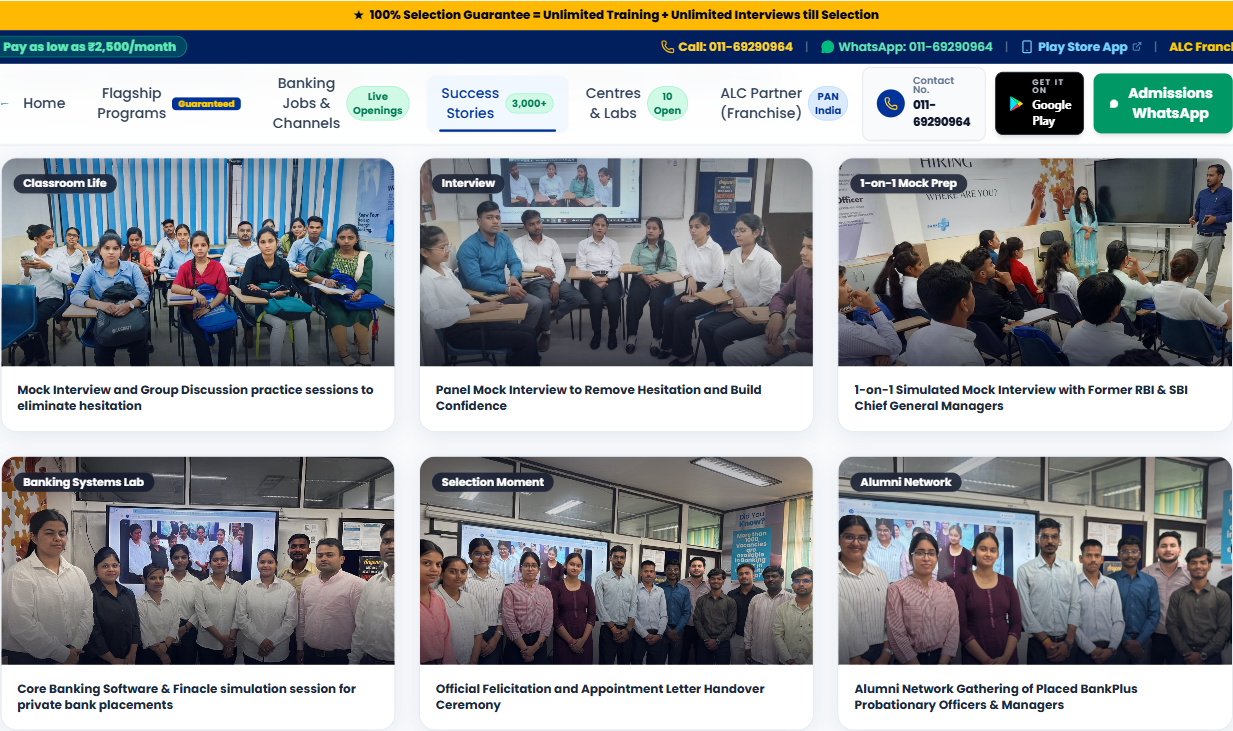
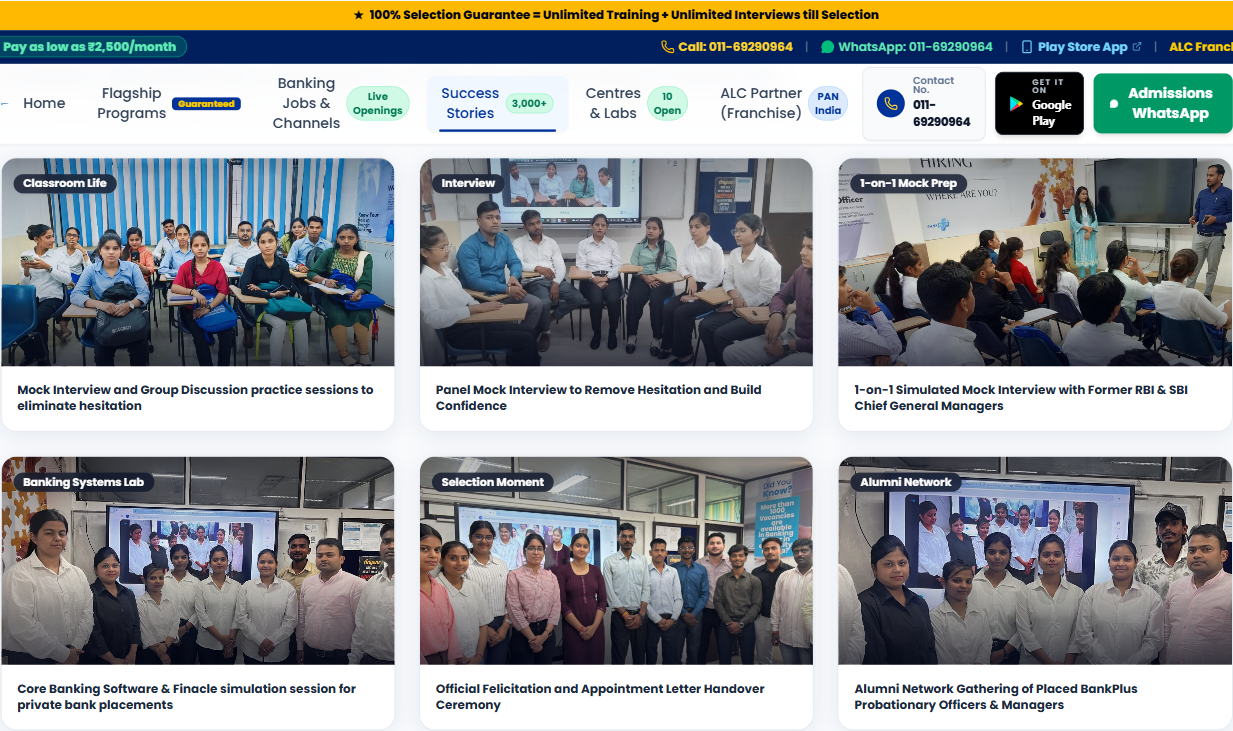
Reorder Campus Life gallery so no two consecutive cards repeat a scene
Client asked that 1st/2nd, 2nd/3rd, 3rd/4th, 4th/5th and 5th/6th each show
different images. Slots 5 and 6 were 3486 and 3444 - two frames of the same
group photo sitting directly next to each other.

The images/ batch holds only five distinct scenes for six slots:
  A 64625 seated classroom | B 64641 mock interview | C 64655 faculty session
  D 64640+64619 branch lab cohort | E 3486+3444 large group
so one group must appear twice; the fix is to place that repeat
non-consecutively.

New order A B C D E D:
  5 Selection Moment -> 3444  (was 3486)
  6 Alumni Network   -> 64619 (was 3444), cropped 1.45x tighter

Every consecutive pair now differs. The repeated D pair sits at 4 and 6 with
slot 5 between them, and the tighter crop on 6 keeps them distinct even when
seen in the same desktop row. Moving slot 5 to 3444 also leaves 3486
exclusive to the reels, cutting cross-section repetition from 4 photos to 3.

mockData.ts is unchanged - only the two JPEGs were regenerated under the same
filenames, which name the caption slot rather than the source photo. Confirmed
the server serves the new bytes, not cached copies.

Verified: tsc --noEmit clean, build ships all 6, cache-busted browser check
shows all 6 loading with 0 broken images.

Changed region(s): [[0.339, 0.6019, 1.0, 0.933]]

diff --git a/context.md b/context.md
@@ -407,8 +407,8 @@ at the **same file** (`classroom/IMG-20260515-WA0024.jpg`), so two cards rendere
 | gallery-2 | Interview — Panel Mock Interview | `64641.jpg` | the only true mock-interview panel in the batch |
 | gallery-3 | 1-on-1 Mock Prep — with former RBI/SBI CGMs | `64655.jpg` | senior faculty leading a live session |
 | gallery-4 | Banking Systems Lab — Core Banking/Finacle | `64640.jpg` | branch-simulation lab, Teller counter + screens |
-| gallery-5 | Selection Moment — felicitation / letter handover | `3486.jpg` | placed cohort, "1000 Vacancies" banner |
-| gallery-6 | Alumni Network — gathering of placed POs | `3444.jpg` | tightened crop, see below |
+| gallery-5 | Selection Moment — felicitation / letter handover | `3444.jpg` | placed cohort, "1000 Vacancies" banner |
+| gallery-6 | Alumni Network — gathering of placed POs | `64619.jpg` | 1.45x tighter crop, see below |
 
 ### Aspect handling
 The slot is `h-52` full-width with `object-cover` — roughly **1.9:1 landscape**, which suits
@@ -443,5 +443,59 @@ Mitigations applied:
   0 broken images** across the whole page
 - Screenshots: `verification-screenshots/before/campus-life-gallery-BEFORE.png`,
   `after/campus-life-gallery-AFTER.png`, `after/campus-life-gallery-mobile-AFTER.png`
+
+---
+## 2026-09-11 — Campus Life gallery: reorder so no two consecutive cards repeat
+
+### Request
+Client (in Urdu): *"images ko aisy lagao k 1st and 2nd different hon, 2nd and 3rd different
+hon, 3rd and 4th, 4th and 5th, and finally 5th and sixth"* — i.e. **every consecutive pair
+of cards must show a different scene**.
+
+### Problem with the previous order
+Slots 5 and 6 were `3486.jpg` and `3444.jpg` — two frames of the **same** group photo, sitting
+directly next to each other. A 1.35× crop had been applied to slot 6 to soften it, but they
+were still the same moment side by side.
+
+### The five distinct scenes
+| Group | Files | Scene |
+| --- | --- | --- |
+| A | `64625` | seated classroom, blue striped curtains |
+| B | `64641` | mock interview semicircle |
+| C | `64655` | faculty leading a session, "HIRING" banner |
+| D | `64640` + `64619` | formal cohort, branch-simulation lab (near-dupes) |
+| E | `3486` + `3444` | large group, "1000 Vacancies" banner (near-dupes) |
+
+Six slots, five scenes — so exactly one group must appear twice. The fix is to place that
+repeat **non-consecutively**.
+
+### New order: A · B · C · D · E · D
+| Slot | Tag | Source | Group |
+| --- | --- | --- | --- |
+| 1 | Classroom Life | `64625` | A |
+| 2 | Interview | `64641` | B |
+| 3 | 1-on-1 Mock Prep | `64655` | C |
+| 4 | Banking Systems Lab | `64640` | D |
+| 5 | Selection Moment | `3444` | E |
+| 6 | Alumni Network | `64619` | D (1.45× tighter crop) |
+
+Consecutive check: 1≠2 ✓ 2≠3 ✓ 3≠4 ✓ 4≠5 ✓ 5≠6 ✓. The repeated D pair sits at slots 4 and 6,
+separated by slot 5 — and slot 6 is cropped 1.45× tighter so the two read as different
+photographs even when seen in the same row on desktop.
+
+Changing slot 5 from `3486` to `3444` also has a side benefit: `3486` stays **exclusive to the
+reels** section, cutting cross-section repetition from 4 photos to 3.
+
+### Why `src/data/mockData.ts` is untouched by this change
+Only the two JPEG files were regenerated — the output filenames
+(`gallery-5-selection-moment.jpg`, `gallery-6-alumni-network.jpg`) are unchanged, and those
+names describe the caption slot rather than the source photo. Verified the dev server serves
+the new bytes (135,291 and 144,633) rather than cached copies.
+
+### Verification
+- `npm run lint` passes; `npm run build` succeeds with all 6 campus files in `dist/`
+- Browser (cache-busted to defeat the identical filenames): all 6 load, 0 broken images
+- Screenshots refreshed: `after/campus-life-gallery-AFTER.png` and
+  `after/campus-life-gallery-mobile-AFTER.png`
 
 ---
